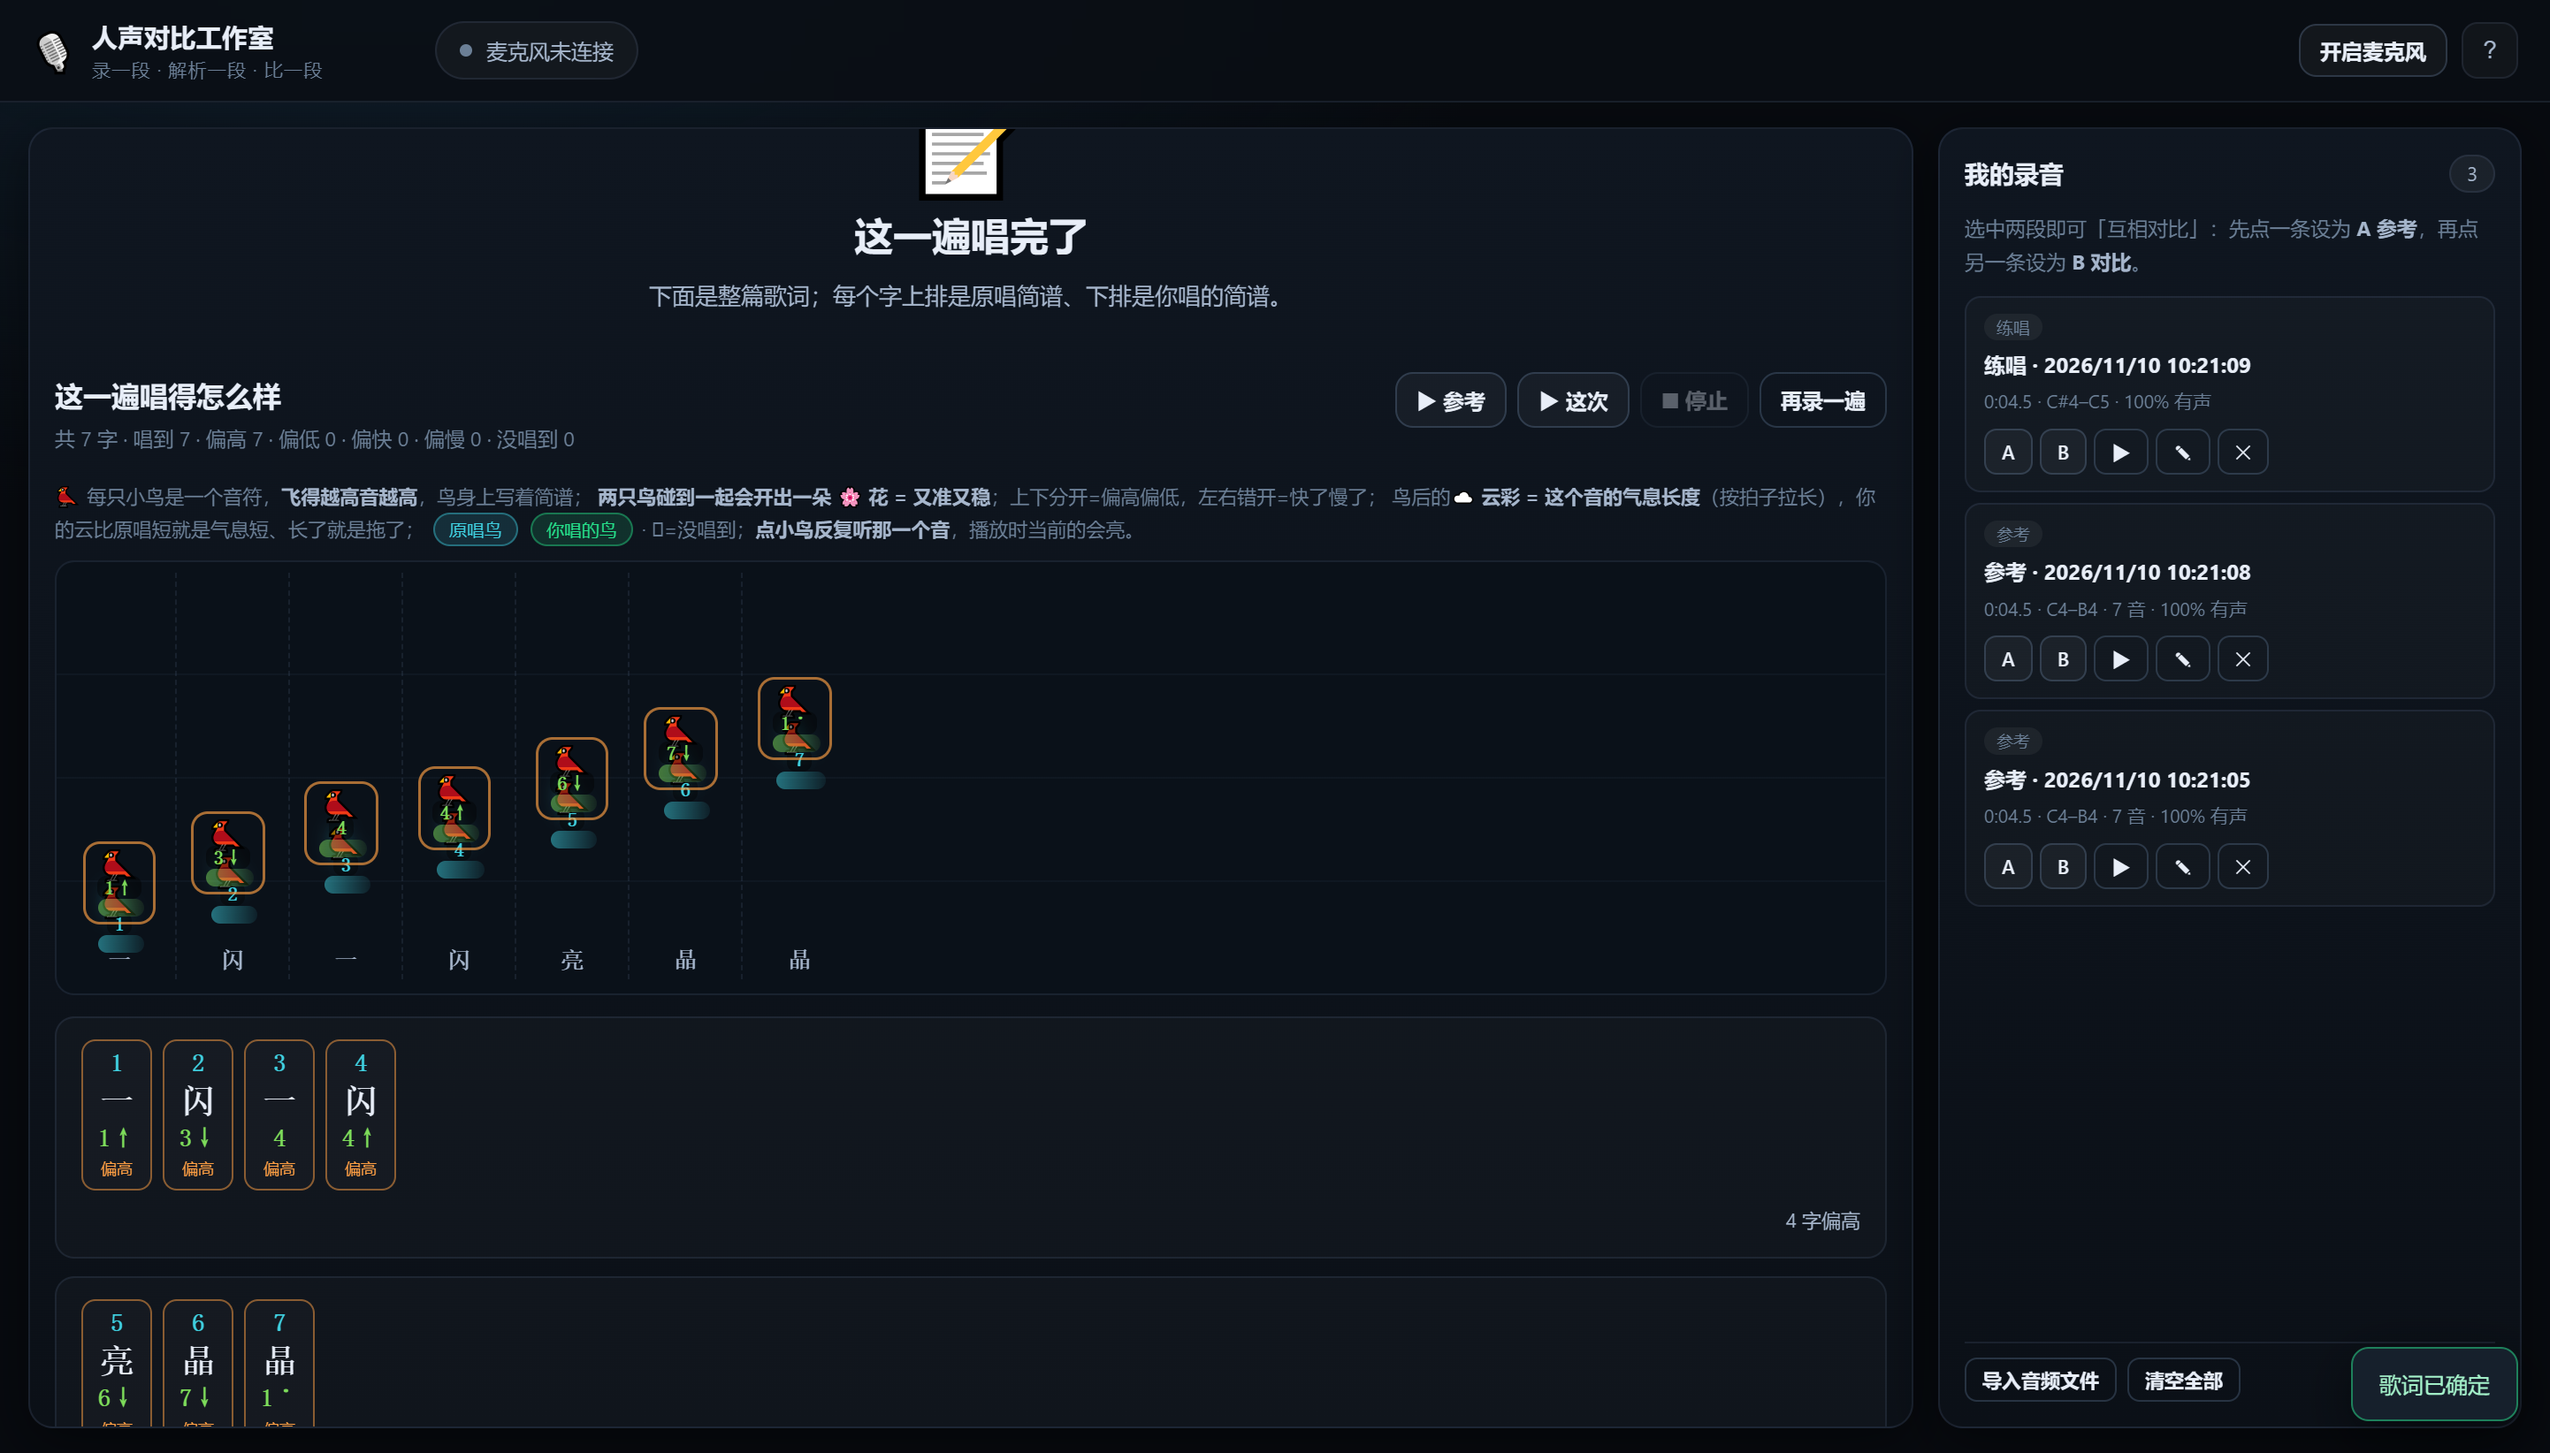
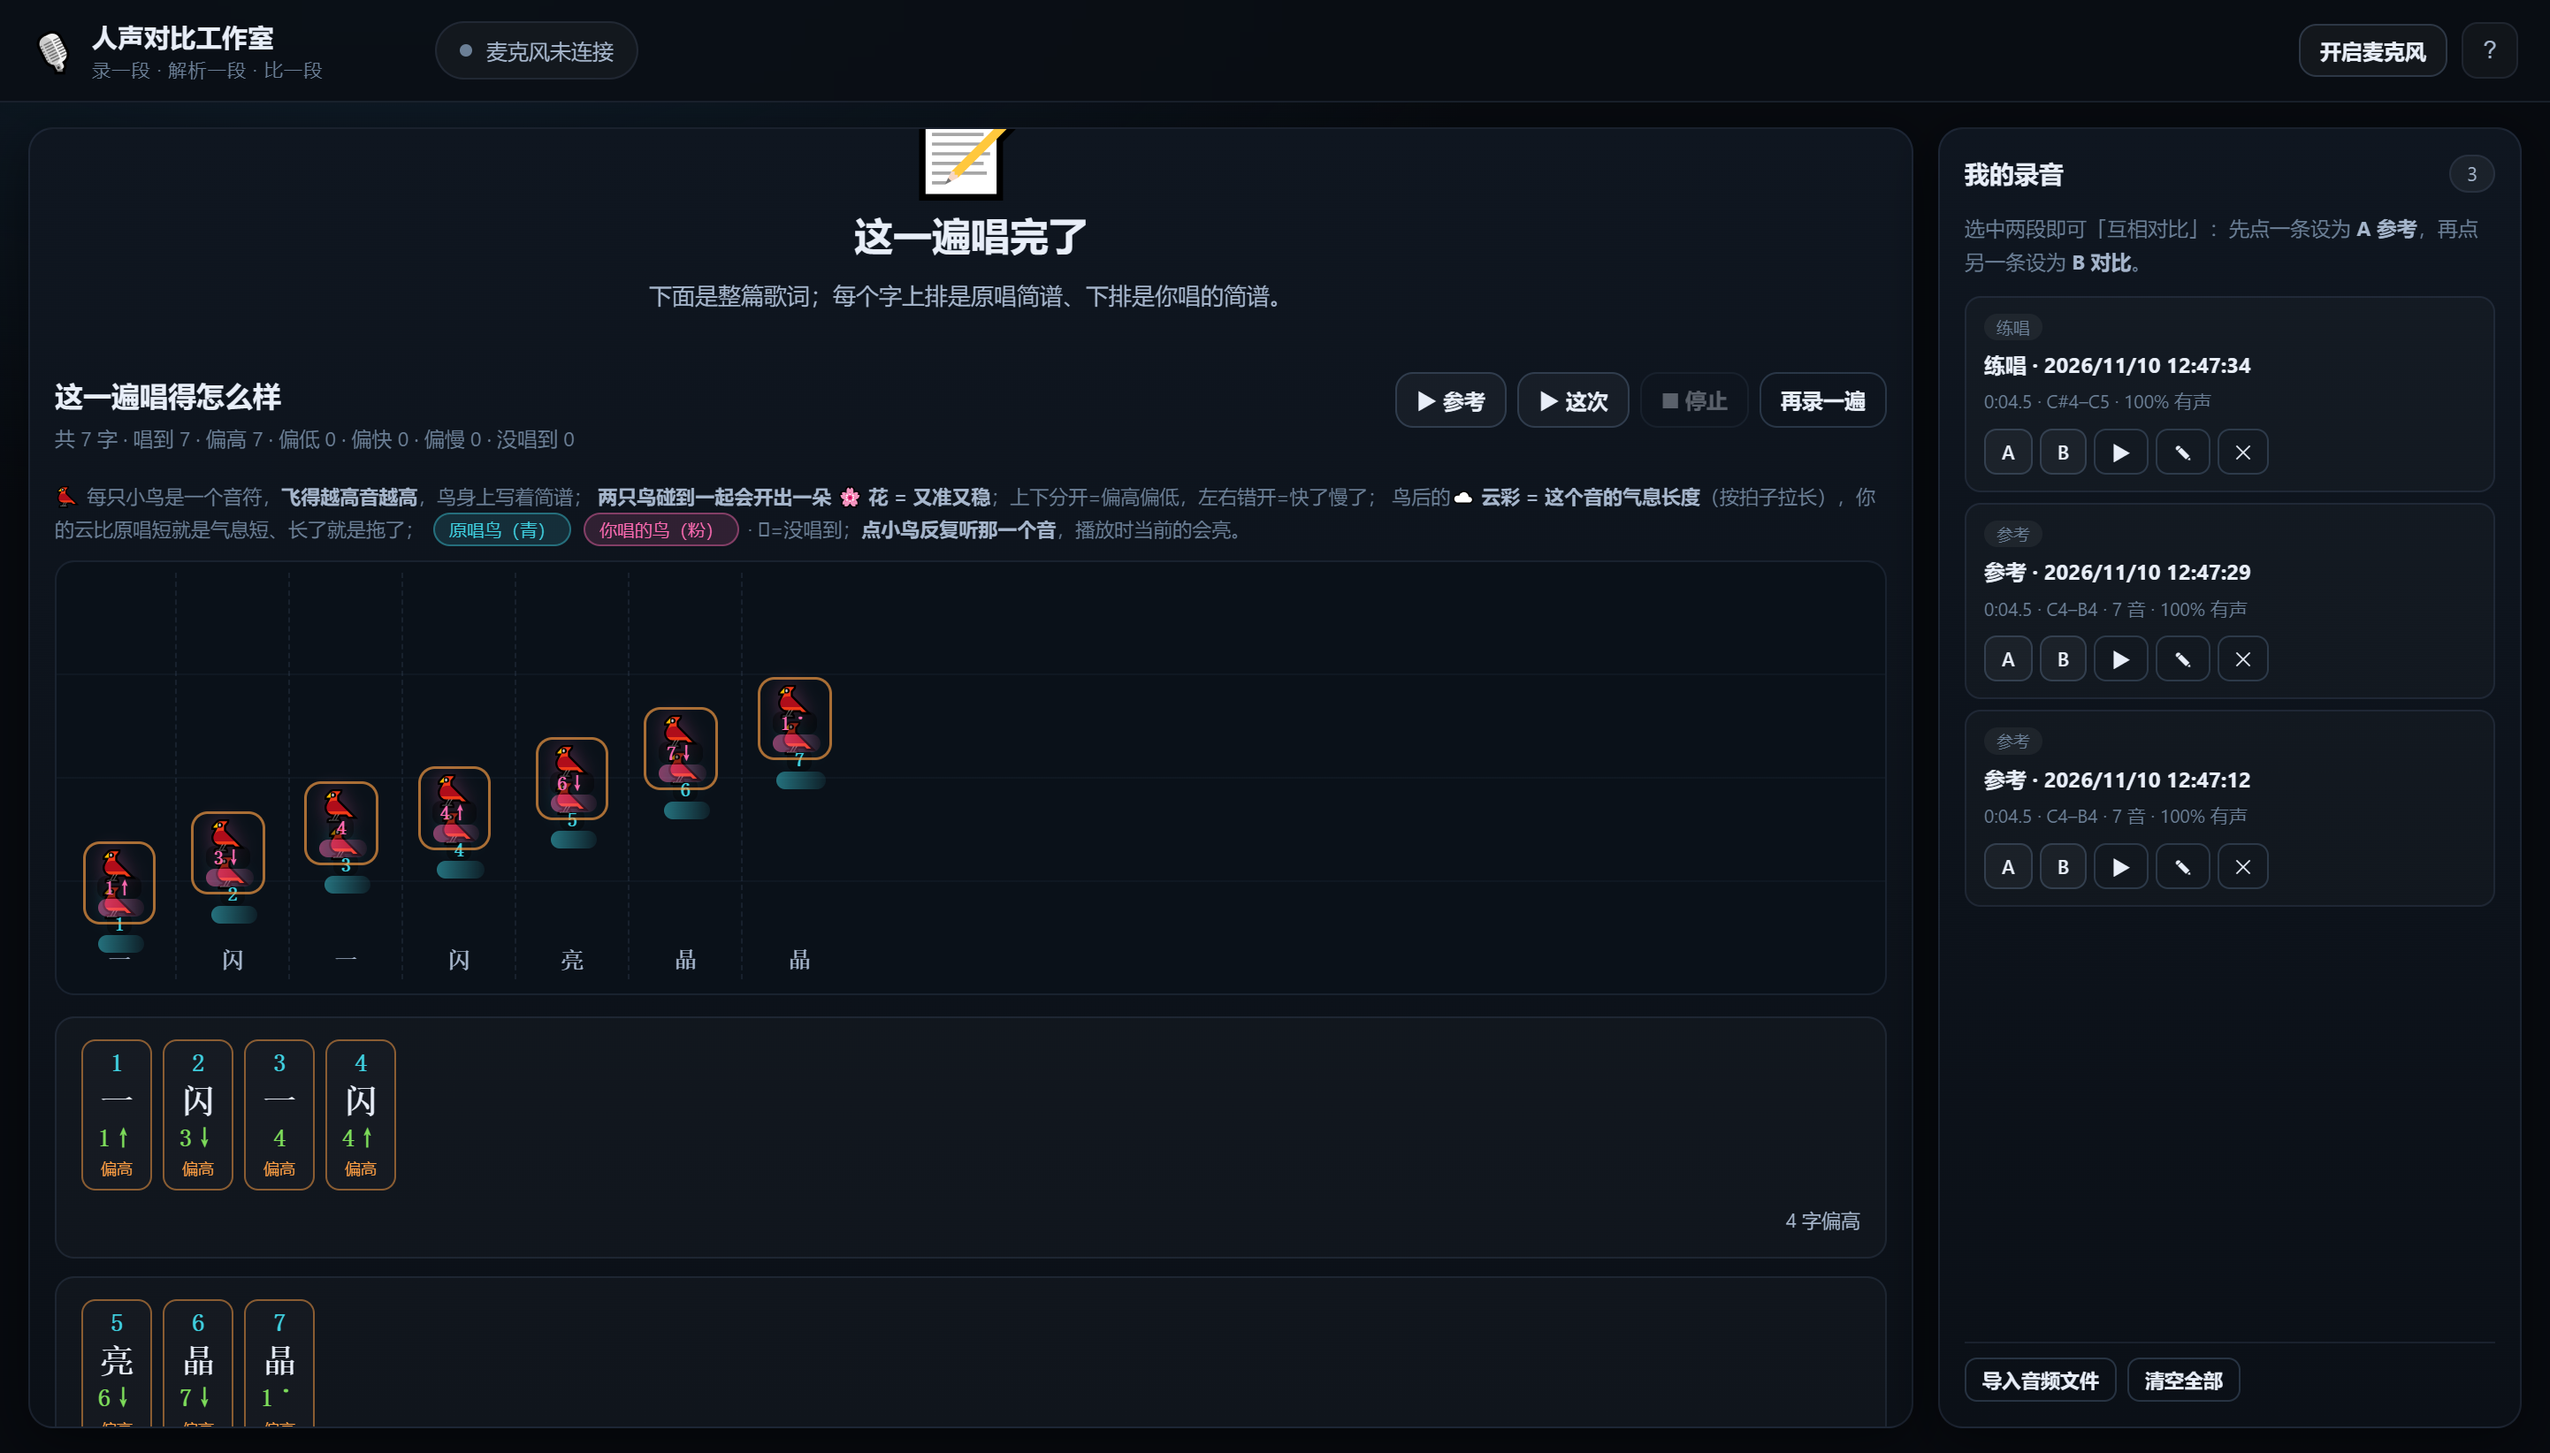
feat: 练唱歌词大字高亮成主角(36px白字发光+缩放)、音符退居小字提示; 你唱的鸟改洋红色与原唱青色强区分、花改金色

diff --git a/web/css/studio.css b/web/css/studio.css
@@ -239,26 +239,31 @@ body {
   font: 700 15px/1.4 "PingFang SC", monospace; }
 .jce-input:focus { outline: none; border-color: var(--green); background: #10201a; }
 
-/* ── 练唱卡拉OK ── */
-.karaoke { margin-top: 16px; padding: 22px 18px; border-radius: 14px; text-align: center; position: relative;
+/* ── 练唱卡拉OK：歌词是主角 ── */
+.karaoke { margin-top: 16px; padding: 26px 18px; border-radius: 14px; text-align: center; position: relative;
   border: 1px solid var(--line-strong); background: radial-gradient(600px 300px at 50% 0%, rgba(140,120,255,.10), transparent 70%), #0a1119; }
 .k-count { position: absolute; font-size: 96px; font-weight: 800; color: var(--green);
   text-shadow: 0 0 40px rgba(37,224,138,.5); animation: kpop .9s ease; }
 @keyframes kpop { from { transform: scale(1.6); opacity: 0; } 40% { opacity: 1; } to { transform: scale(1); opacity: .9; } }
-.k-line { display: flex; justify-content: center; flex-wrap: wrap; gap: 4px; min-height: 30px; }
-.k-line#kPrevLine, .k-line#kNextLine { opacity: .35; filter: blur(.3px); }
-.k-unit { display: inline-flex; flex-direction: column; align-items: center; min-width: 42px; padding: 4px 6px; border-radius: 8px;
+.k-line { display: flex; justify-content: center; flex-wrap: wrap; gap: 6px; min-height: 46px; }
+.k-line#kPrevLine, .k-line#kNextLine { opacity: .28; filter: blur(.4px); }
+.k-unit { display: inline-flex; flex-direction: column-reverse; align-items: center; min-width: 52px; padding: 5px 8px 3px; border-radius: 10px;
   transition: transform .12s, background .12s; }
-.k-jp { font: 700 15px/1.1 "PingFang SC", monospace; color: var(--cyan); }
-.k-beat { font-size: 9px; color: var(--text-3); }
-.k-char { font: 700 21px/1.3 "PingFang SC", monospace; color: var(--text-2); }
-.k-unit.on { background: rgba(37,224,138,.16); transform: scale(1.18); box-shadow: 0 0 0 1px rgba(37,224,138,.45); }
-.k-unit.on .k-char { color: var(--green); }
-.k-unit.on .k-jp { color: #fff; }
-.k-unit.done { opacity: .5; }
+/* 音符小字垫在上面作提示，歌词大字在下面当主角 */
+.k-jp { font: 700 13px/1.1 "PingFang SC", monospace; color: var(--text-3); display: inline-flex; align-items: baseline; gap: 2px; }
+.k-beat { font-size: 8px; font-style: normal; color: var(--text-3); opacity: .8; }
+/* 歌词：未唱到的也足够亮；当前字白底大字最突出 */
+.k-char { font: 800 30px/1.25 "PingFang SC", "Microsoft YaHei", monospace; color: #f2f7ff;
+  text-shadow: 0 2px 10px rgba(0,0,0,.6); letter-spacing: 2px; }
+.k-unit.on { background: linear-gradient(180deg, rgba(37,224,138,.22), rgba(37,224,138,.08));
+  transform: scale(1.22); box-shadow: 0 0 0 2px rgba(37,224,138,.55), 0 6px 22px rgba(37,224,138,.25); }
+.k-unit.on .k-char { color: #fff; font-size: 36px; text-shadow: 0 0 16px rgba(37,224,138,.9), 0 2px 8px rgba(0,0,0,.6); }
+.k-unit.on .k-jp { color: var(--green); font-size: 15px; }
+.k-unit.done { opacity: .45; }
+.k-unit.done .k-char { color: var(--text-2); }
 .k-progress { height: 5px; border-radius: 999px; background: rgba(255,255,255,.06); overflow: hidden; margin: 16px 0 8px; }
 .k-progress-fill { height: 100%; width: 0; background: linear-gradient(90deg, var(--green), var(--cyan)); transition: width .08s linear; }
-.k-hint { font-size: 11.5px; color: var(--text-3); }
+.k-hint { font-size: 12px; color: var(--text-2); }
 
 /* ── 结果：一篇歌词，每字上下两排 ── */
 .result-wrap { margin-top: 6px; }
@@ -292,7 +297,7 @@ body {
 .nb-legend b { color: var(--text-2); }
 .nb-key { display: inline-block; padding: 0 8px; border-radius: 999px; font-size: 10px; margin: 0 2px; }
 .nb-key.ref { background: rgba(63,208,224,.14); color: var(--cyan); border: 1px solid rgba(63,208,224,.4); }
-.nb-key.my { background: rgba(37,224,138,.14); color: var(--green); border: 1px solid rgba(37,224,138,.4); }
+.nb-key.my { background: rgba(255,107,179,.14); color: #ff6bb3; border: 1px solid rgba(255,107,179,.4); }
 .nb-wrap {
   display: flex; align-items: stretch; gap: 0; overflow-x: auto; padding: 6px 4px 8px;
   border-radius: 11px; border: 1px solid var(--line); background: #0a1119; margin-bottom: 12px;
@@ -319,18 +324,19 @@ body {
   transition: top .25s ease, box-shadow .15s; white-space: nowrap;
 }
 .nb-bird.ref { left: 50%; transform: translateX(-50%); color: var(--cyan); text-shadow: 0 0 10px rgba(63,208,224,.25); }
-.nb-bird.my  { left: 50%; transform: translateX(-50%); color: var(--lime); }
-/* 两鸟重合 = 唱准：合成一朵花（简谱上原唱/下你唱），绿框 */
+/* 你唱的鸟：洋红，与青色原唱鸟形成冷暖对比，一眼分清谁是谁 */
+.nb-bird.my  { left: 50%; transform: translateX(-50%); color: #ff6bb3; text-shadow: 0 0 10px rgba(255,107,179,.3); }
+/* 两鸟重合 = 唱准：合成一朵花（简谱上原唱/下你唱），洋红→金渐变框 */
 .nb-bird.merged {
-  left: 50%; transform: translateX(-50%); color: var(--lime);
+  left: 50%; transform: translateX(-50%); color: #ffd166;
   font-size: 22px;
-  box-shadow: 0 0 0 2px rgba(37,224,138,.65);
-  background: rgba(37,224,138,.12);
+  box-shadow: 0 0 0 2px rgba(255,209,102,.7);
+  background: rgba(255,209,102,.14);
   padding: 4px 8px; gap: 1px;
 }
-.nb-bird.merged .nb-jp.my { color: #fff; background: rgba(37,224,138,.55); }
-.nb-bird.merged.perfect { box-shadow: 0 0 0 2px rgba(37,224,138,.65); }
-.nb-bird.merged.ok { box-shadow: 0 0 0 2px rgba(255,209,102,.6); }
+.nb-bird.merged .nb-jp.my { color: #fff; background: rgba(255,107,179,.55); }
+.nb-bird.merged.perfect { box-shadow: 0 0 0 2px rgba(255,209,102,.7); }
+.nb-bird.merged.ok { box-shadow: 0 0 0 2px rgba(255,209,102,.5); }
 /* 没唱到：半透明灰鸟位 */
 .nb-bird.my.missed { opacity: .45; filter: grayscale(.8); }
 .nb-jp { font: 700 11px/1.2 "PingFang SC", monospace; color: #fff; background: rgba(0,0,0,.4);
@@ -339,16 +345,15 @@ body {
 .nb-cloud { display: inline-block; height: 10px; margin-left: 2px; border-radius: 999px;
   vertical-align: middle; }
 .nb-bird.ref .nb-cloud { background: linear-gradient(90deg, rgba(63,208,224,.5), rgba(63,208,224,.08)); }
-.nb-bird.my  .nb-cloud { background: linear-gradient(90deg, rgba(125,220,90,.5), rgba(125,220,90,.08)); }
-.nb-bird.merged .nb-cloud { background: linear-gradient(90deg, rgba(37,224,138,.5), rgba(37,224,138,.08)); }
+.nb-bird.my  .nb-cloud { background: linear-gradient(90deg, rgba(255,107,179,.5), rgba(255,107,179,.08)); }
+.nb-bird.merged .nb-cloud { background: linear-gradient(90deg, rgba(255,209,102,.5), rgba(255,209,102,.08)); }
 .nb-bird.ref .nb-jp { color: var(--cyan); }
-.nb-bird.my .nb-jp { color: var(--lime); }
+.nb-bird.my .nb-jp { color: #ff6bb3; }
 /* 判定框色：只描你的那只鸟 */
 .nb-bird.my.perfect { box-shadow: 0 0 0 1.5px rgba(37,224,138,.55); }
 .nb-bird.my.ok { box-shadow: 0 0 0 1.5px rgba(255,209,102,.55); }
 .nb-bird.my.sharp { box-shadow: 0 0 0 1.5px rgba(255,159,67,.65); }
-.nb-bird.my.off { box-shadow: 0 0 0 1.5px rgba(255,77,94,.7); }
-.nb-col.on .nb-bird { filter: drop-shadow(0 0 8px rgba(37,224,138,.8)); }
+.nb-bird.my.off { box-shadow: 0 0 0 1.5px rgba(255,77,94,.7); }.nb-col.on .nb-bird { filter: drop-shadow(0 0 8px rgba(37,224,138,.8)); }
 .nb-col.on .nb-bird.ref { transform: translateX(-50%) scale(1.15); }
 .nb-col.on .nb-bird.my { transform: translateX(-50%) scale(1.15); }
 .nb-col.missed .nb-bird.my { opacity: .35; filter: grayscale(.6); }

diff --git a/web/index.html b/web/index.html
@@ -164,7 +164,7 @@
       <div class="nb-legend">🐦 每只小鸟是一个音符，<b>飞得越高音越高</b>，鸟身上写着简谱；
         <b>两只鸟碰到一起会开出一朵 🌸 花 = 又准又稳</b>；上下分开=偏高偏低，左右错开=快了慢了；
         鸟后的<b>☁ 云彩 = 这个音的气息长度</b>（按拍子拉长），你的云比原唱短就是气息短、长了就是拖了；
-        <span class="nb-key ref">原唱鸟</span> <span class="nb-key my">你唱的鸟</span> ·
+        <span class="nb-key ref">原唱鸟（青）</span> <span class="nb-key my">你唱的鸟（粉）</span> ·
         🫥=没唱到；<b>点小鸟反复听那一个音</b>，播放时当前的会亮。</div>
       <div class="nb-wrap" id="noteBlocks"></div>
       <div class="lyric-result" id="lyricResult"></div>
@@ -223,7 +223,10 @@
       <h3>3. 改歌词 → 重新解析匹配 → 确定</h3>
       <p>在歌词框里改字（或粘贴整段）后，点 <b>「🔄 重新解析匹配」</b>：会拿第一次录音解析出的节奏骨架，把歌词按每句实际演唱时长重新分句、逐字钉回每个音符。下面的「逐字对应格」可以<b>点单个格子改那个音符上的字</b>。核对无误点 <b>「✓ 确定歌词」</b> 锁定。</p>
       <h3>4. 练唱：像 K 歌一样</h3>
-      <p>点「练唱开始」后有 <b>3-2-1 倒计时</b>，每句起音前也会给「第 N 句 · 3-2-1 这一句开始」提词；然后逐字高亮：能看到每个字的<b>歌词、简谱音符、几拍</b>，跟着唱。唱完点「停止录音」。</p>
+      <p>点「练唱开始」后有 <b>3-2-1 倒计时</b>，每句起音前也会给「第 N 句 · 3-2-1 这一句开始」提词；
+         然后<b>大字歌词逐字高亮</b>——当前字是白底发光的大字，一眼锁定唱到哪；
+         音符（简谱+节拍）以小字垫在歌词上方作提示，不抢歌词的视线。
+         唱完点「停止录音」。</p>
       <h3>5. 结果：小鸟音符对照 + 一篇歌词</h3>
       <p>结果区上半是<b>小鸟音符图</b>：每个音符一只小鸟，<b>飞得越高音越高</b>，鸟身上写着简谱——
          青色是原唱鸟、绿色是你唱的鸟。<b>两只鸟碰到一起会开出一朵 🌸 花 = 又准又稳</b>；

diff --git a/web/js/app.js b/web/js/app.js
@@ -251,7 +251,8 @@ function loop() {
   S.recRAF = requestAnimationFrame(loop);
 }
 
-/** 练唱中：逐字高亮当前句，显示每字的简谱与节拍 */
+/** 练唱中：逐字高亮当前句，显示每字的简谱与节拍。
+ *  歌词是主角：当前字大号白字放中间最亮，音符退居其上作小字提示。 */
 function updateKaraoke(vt) {
   const score = S.score;
   if (!score?.lines?.length) return;
@@ -270,9 +271,9 @@ function updateKaraoke(vt) {
     if (!line) return '';
     return line.units.map((u) => {
       const on = active && vt >= u.start && vt < u.end;
-      return `<span class="k-unit${on ? ' on' : ''}${vt > u.end ? ' done' : ''}" title="${escapeHtml(jianpuTitle(u.jianpu))}">
-        <span class="k-jp">${jianpuHtml(u.jianpu)}</span>
-        <span class="k-beat">${escapeHtml(u.beat)}</span>
+      const done = active && vt > u.end;
+      return `<span class="k-unit${on ? ' on' : ''}${done ? ' done' : ''}" title="${escapeHtml(jianpuTitle(u.jianpu))}">
+        <span class="k-jp">${jianpuHtml(u.jianpu)}<i class="k-beat">${escapeHtml(u.beat)}</i></span>
         <span class="k-char">${escapeHtml(u.char || '○')}</span>
       </span>`;
     }).join('');
